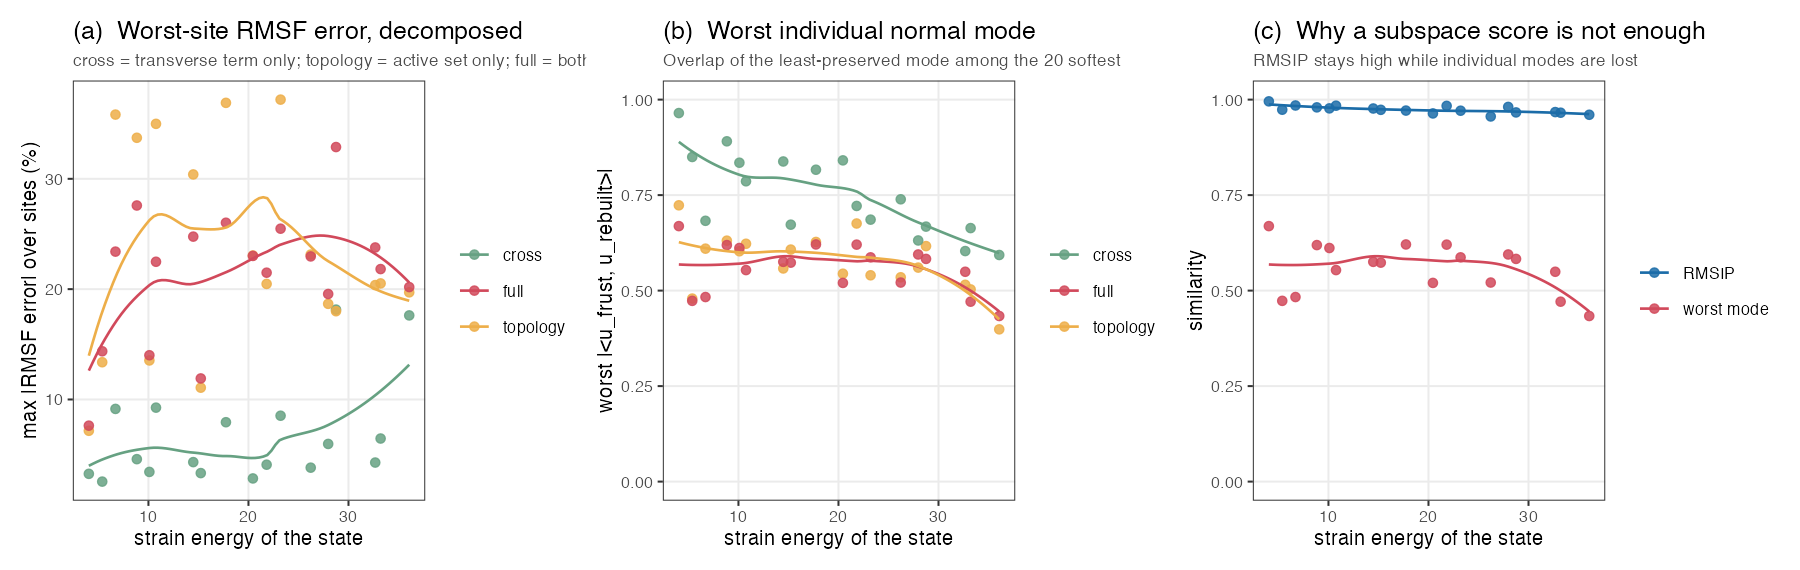
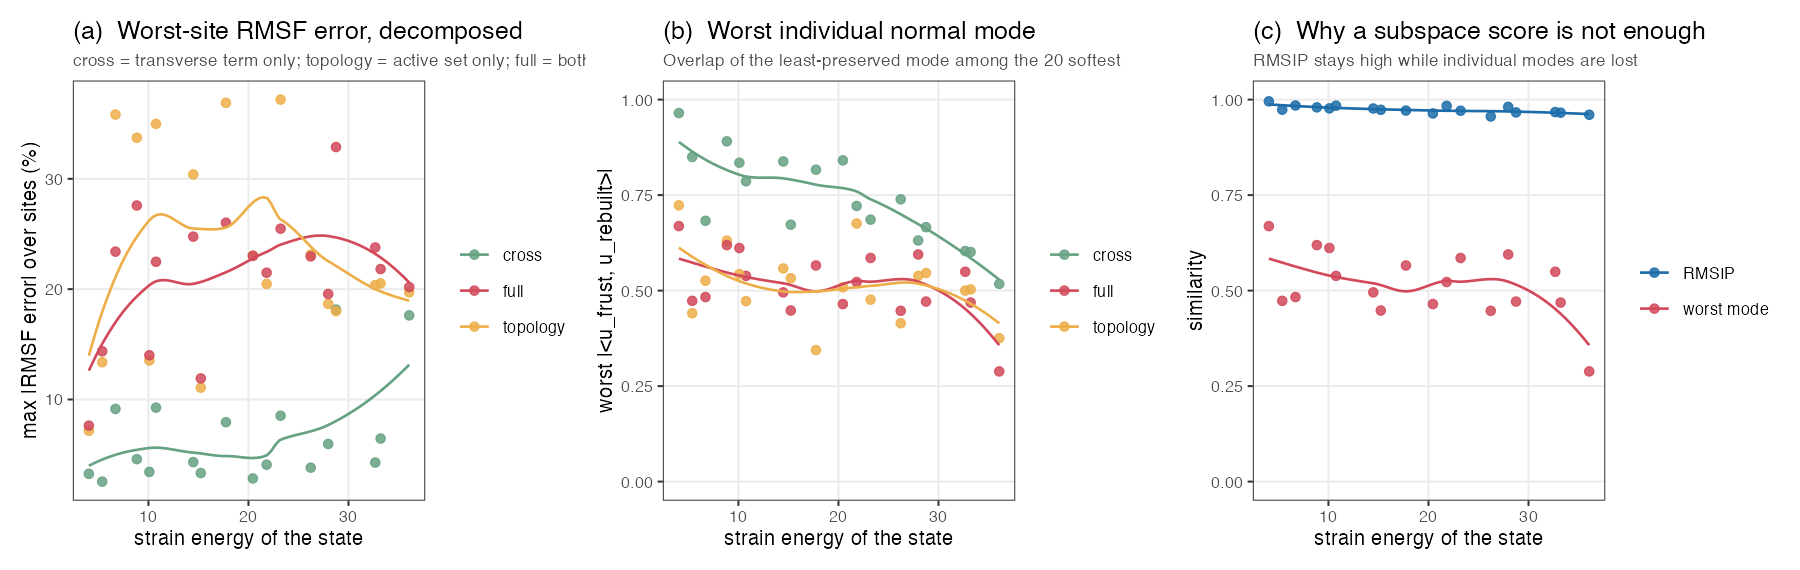
docs(klfenm): final pass -- remove claims the reviews superseded
Three leftovers from the pre-review draft still contradicted the new findings:
"The topology change dominates" as a flat statement, "all 18 states" for a
9-state sweep, and a subsection presenting single-mode overlaps as evidence
("a mode essentially not shared between the two models") which the null control
had already refuted three pages later.

Every number re-verified against a regenerated results.rds from the single
pipeline: flips, downhill fractions, scan correlations, RMSF worst-site
(7.6/22.7/32.9), Frobenius (2.53/15.09/15.31, ratio 5.58, quadrature 0.34%),
blocks (0.745/0.882/0.928), dTS (-4.57, -2.09, -5.53), the cutoff sweep
(5.52/2.82/2.04/1.45) and the control (0.539 vs 0.001, 22.5% vs 698%).

Noted that the sweep uses observe_every=20 (9 states) while the Frobenius table
uses 10 (18 states), which is why the "step" rows differ slightly.

Eight figures, three check suites green, 6/6 sabotages caught, penm untouched.

Claude-Session: https://claude.ai/code/session_01718pyyR1LGk8mYudfbKQ9M

diff --git a/dev/explorations/klfenm/REPORT.md b/dev/explorations/klfenm/REPORT.md
@@ -355,8 +355,9 @@ before any observable is computed.
 | min | 0.593 | 0.399 | 0.434 |
 | median | **0.730** | **0.582** | **0.574** |
 
-**The topology change dominates.** Zeroing the transverse term alone costs ~4.5 %
-at the worst site; re-deriving the contact set costs ~20 %.
+Read naively this says topology costs ~20 % at the worst site against the
+transverse term's ~4.5 %. Two things below block that reading: the statistic does
+not decompose, and the ratio it suggests is an artefact of the hard cutoff.
 
 **Worst-site maxima do not decompose, and must not be read as an attribution.**
 The two effects peak at different sites, so their maxima can cancel rather than
@@ -397,19 +398,23 @@ contact. Their energetic weight is small by comparison: the springs the rebuild
 discards hold 1.36 of that state's total $V = 23.21$, i.e. 5.9 %.
 
 Softening the cutoff — using the same sigmoid $k_{ij}(l_{ij})$ of §7 on *both*
-sides of the comparison — collapses the effect. Median over the same 18 states:
+sides of the comparison — collapses the effect. Medians over 9 states (the same
+three trajectories, sampled every 20 substitutions rather than every 10, so the
+"step" row differs slightly from the 18-state table above):
 
 | cutoff | transverse | topology | ratio |
 |---|---|---|---|
-| step (as above) | 2.86 | 15.80 | **5.52** |
+| step | 2.86 | 15.80 | **5.52** |
 | sigmoid, $w = 0.25$ | 2.85 | 7.78 | 2.82 |
 | sigmoid, $w = 0.50$ | 2.85 | 5.65 | 2.04 |
 | sigmoid, $w = 1.00$ | 2.86 | 4.08 | **1.45** |
 
+![cutoff sweep](figures/fig7_cutoff_sweep.png)
+
 The transverse term is untouched (2.86 throughout, as it must be — it does not
 depend on the cutoff). The whole effect is the topology term shrinking as
 marginal springs stop being counted at full weight. The ratio is monotone in $w$
-in all 18 states.
+in all 9 states.
 
 **So the honest conclusion is narrower than "topology dominates".** Under a hard
 cutoff, re-deriving the contact map perturbs the Hessian several times more than
@@ -423,30 +428,29 @@ Other quantities, across the 18 states:
 | quantity | median | range |
 |---|---|---|
 | eigenvalue relative difference (max over 20 modes) | 20.1 % | up to 76.3 % |
-| modes reordered out of 20 (best-match vs index) | 5 | up to 13 |
+| modes reordered (one-to-one assignment vs index), of 20 | 5 | up to 13 |
 | $TS_{\text{rebuilt}} - TS_{\text{frustrated}}$ | −4.57 | [−6.34, −0.44] |
 
-The entropy drop follows from the added edges: the rebuild adds them, stiffening the
-20 softest modes by 15 % on average (that state's mean eigenvalue ratio, rebuilt
-over frustrated), which lowers $TS$. Both models have exactly six
-zero modes, so this is not a mode-counting artefact.
+The entropy drop follows from the added edges: at seed 501 / 60 substitutions the
+rebuild adds 27 net, stiffening the 20 softest modes by 15 % on average (that
+state's mean eigenvalue ratio, rebuilt over frustrated), which lowers $TS$. Both
+models have exactly $3N-6 = 288$ non-rigid modes, so this is not a mode-counting
+artefact. As with every median here, the $-4.57$ is a property of the sampling
+grid — see the sub-table above.
 
-### Why scalar summaries would have missed this
+### Scalar summaries and profiles say different things
 
 ![one state](figures/fig6_one_state.png)
 
-For the same 18 states, the RMSF **correlation** has median 0.982 (minimum
-0.961) and **RMSIP** over the 20 softest modes has median 0.973 (minimum 0.956).
-Read alone, either number says the rebuild is an excellent approximation.
+For the same 18 states, the RMSF **correlation** has median 0.982 (minimum 0.961)
+and **RMSIP** over the 20 softest modes has median 0.973 (minimum 0.956). In the
+state shown above the correlation is 0.983 while site 92 is wrong by −20.2 %, and
+RMSIP is 0.960 while the least-preserved single mode overlaps at 0.43.
 
-Read beside the profiles they summarise, they say something else. In the state
-shown above: correlation 0.983, and site 92 wrong by −20 %. RMSIP 0.960, and
-mode 10 with an overlap of 0.43 — a mode essentially not shared between the two
-models.
-
-A subspace can be preserved while individual modes inside it are scrambled, and
-a profile correlation can be excellent while individual sites are badly wrong.
-**Both scalars are averages over exactly the variation being asked about.**
+A profile correlation can be excellent while individual sites are badly wrong,
+so the site-resolved numbers of the table above are worth reporting separately
+from the correlation. **The same argument does not carry over to the modes**, for
+the reason given next.
 
 ### Individual mode overlaps carry no information here
 
@@ -471,6 +475,8 @@ rebuild. Median over 18 states × 3 null draws (`analyses/run_control.R`):
 | median block-3 overlap | 0.886 | 0.710 |
 | worst-site RMSF error | 22.5 % | **698 %** |
 | max eigenvalue relative difference | 0.221 | 0.997 |
+
+![null control](figures/fig8_null_control.png)
 
 A null perturbation of the same Hessian magnitude is **far more destructive**
 than the rebuild on every measure. So the rebuild is a remarkably *gentle*
@@ -633,7 +639,7 @@ not, since nothing here is linearly forced.
 | `R/klfenm_trajectory.R` | scans and walks |
 | `analyses/run_all.R` | sections 2–7 $\to$ `data/results.rds` (~25 min) |
 | `analyses/run_control.R` | the matched null control of §6 $\to$ `data/control.rds` |
-| `figures/make_figures.R` | the six figures |
+| `figures/make_figures.R` | the eight figures |
 | `checks/` | `test_core.R`, `test_profiles.R`, `test_can_fail.R` |
 
 Reproduce with
